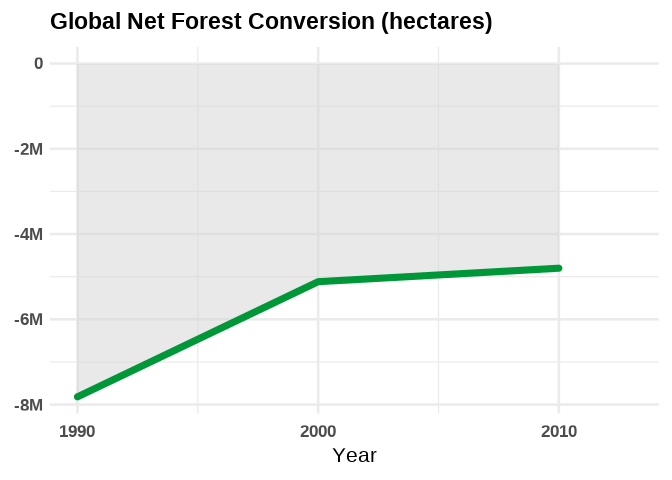
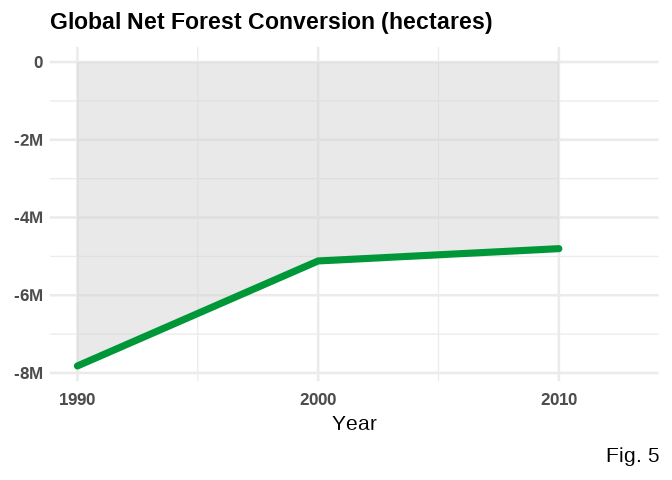
styling.

diff --git a/README.md b/README.md
@@ -13,7 +13,7 @@ library(scales)
 library(viridis)
 library(gghighlight)
 library(styler)
-library(wesanderson)
+
 knitr::opts_chunk$set(echo = T)
 
 ggplot2::theme_set(ggplot2::theme_minimal(base_size = 20))
@@ -60,10 +60,9 @@ years. From here, we could then examine the “what”. To do this, we
 decided to compare the proportions with an area plot. This gave us the
 opportunity to showcase which causes are the most impactful in Brazil’s
 deforestation. Finally, to understand the “why” of deforestation, we
-selected to examine one of the leading causes of deforestation in Brazil
-- soybean production. Using line plots again allowed us to highlight
-which regions and countries are most influential in driving soybean
-production globally.
+selected to examine one of the leading causes of deforestation in
+Brazil. Using line plots again allowed us to highlight which regions and
+countries are most influential in driving soybean production globally.
 
 Putting all of these factors together gives us a basic understanding of
 global deforestation.
@@ -321,11 +320,12 @@ use_prop %>%
   ) +
   labs(
     title = "Global soybean production and use share between 1961-2013",
-    subtitle = "By types of usage"
+    subtitle = "By types of usage",
+    caption = "Fig. 4"
   ) +
   theme(
     plot.title = element_text(face = "bold", size = 17),
-    plot.subtitle = element_text(size = 14),
+    plot.subtitle = element_text(size = 15),
     legend.position = "bottom",
     legend.key.size = unit(.5, "cm"),
     legend.text = element_text(size = 12),
@@ -353,7 +353,8 @@ ggplot(forest2, aes(x = year, y = net_forest_conversion, fill = year)) +
     limits = c(1990, 2013),
     breaks = seq(from = 1990, to = 2013, by = 10)
   ) +
-  labs(title = "Global Net Forest Conversion (hectares)", x = "Year", y = NULL) +
+  labs(title = "Global Net Forest Conversion (hectares)", x = "Year", y = NULL, caption = "Fig. 5"
+  ) +
   theme(
     legend.position = "none",
     plot.title = element_text(face = "bold", size = 17),
